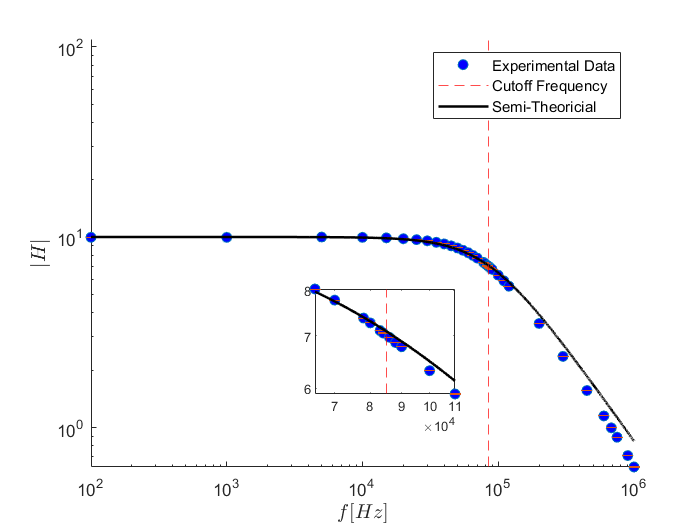
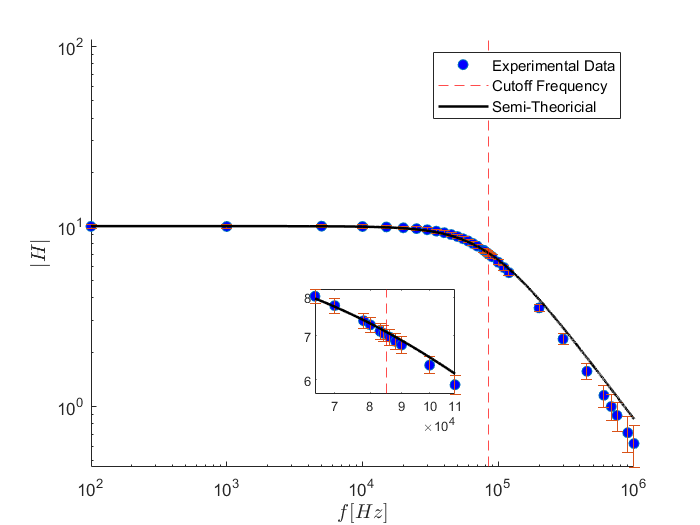
the last matlab update... hopefully

diff --git a/lab6.m b/lab6.m
@@ -9,10 +9,10 @@ dataSetup1 = xlsread('RawData.xlsx','Setup1');
 f1 = dataSetup1(:,1);
 ch1vdiv1 = dataSetup1(:,2);
 dei1 = dataSetup1(:,3);
-ei1 = dataSetup1(:,4);
+ei1 = dataSetup1(:,4)/1000;
 ch2vdiv1 = dataSetup1(:,5);
 deo1 = dataSetup1(:,6);
-eo1 = dataSetup1(:,7);
+eo1 = dataSetup1(:,7)/1000;
 H1 = dataSetup1(:,8);
 dH1 = H1 .* sqrt( (deo1./eo1).^2 + (dei1./ei1).^2 );
 
